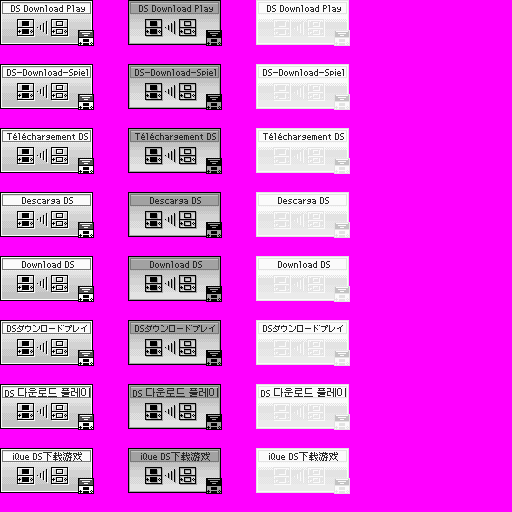
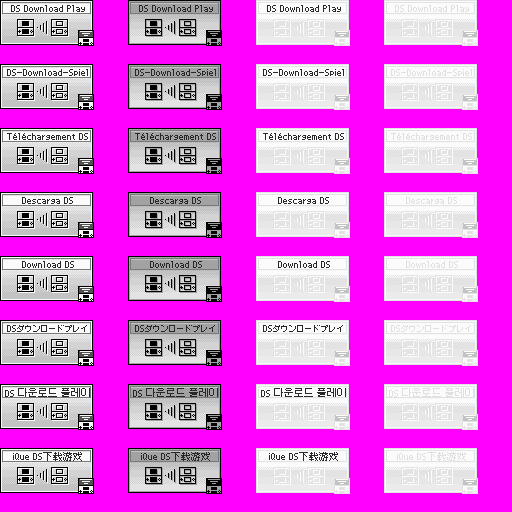
Add texture for dlpnot found

diff --git a/quickmenu/arm9/source/graphics/graphics.cpp b/quickmenu/arm9/source/graphics/graphics.cpp
@@ -404,7 +404,7 @@ auto getMenuEntryTexture(MenuEntry entry) {
 			return &(*pictochat_images)[0];
 		case MenuEntry::DOWNLOADPLAY:
 			if(!dlplayFound)
-				return &dlp_icons.images[2];
+				return &dlp_icons.images[3];
 			if(initialTouchedPosition == MenuEntry::DOWNLOADPLAY) {
 				if(currentTouchedPosition != MenuEntry::DOWNLOADPLAY)
 					return &dlp_icons.images[2];
